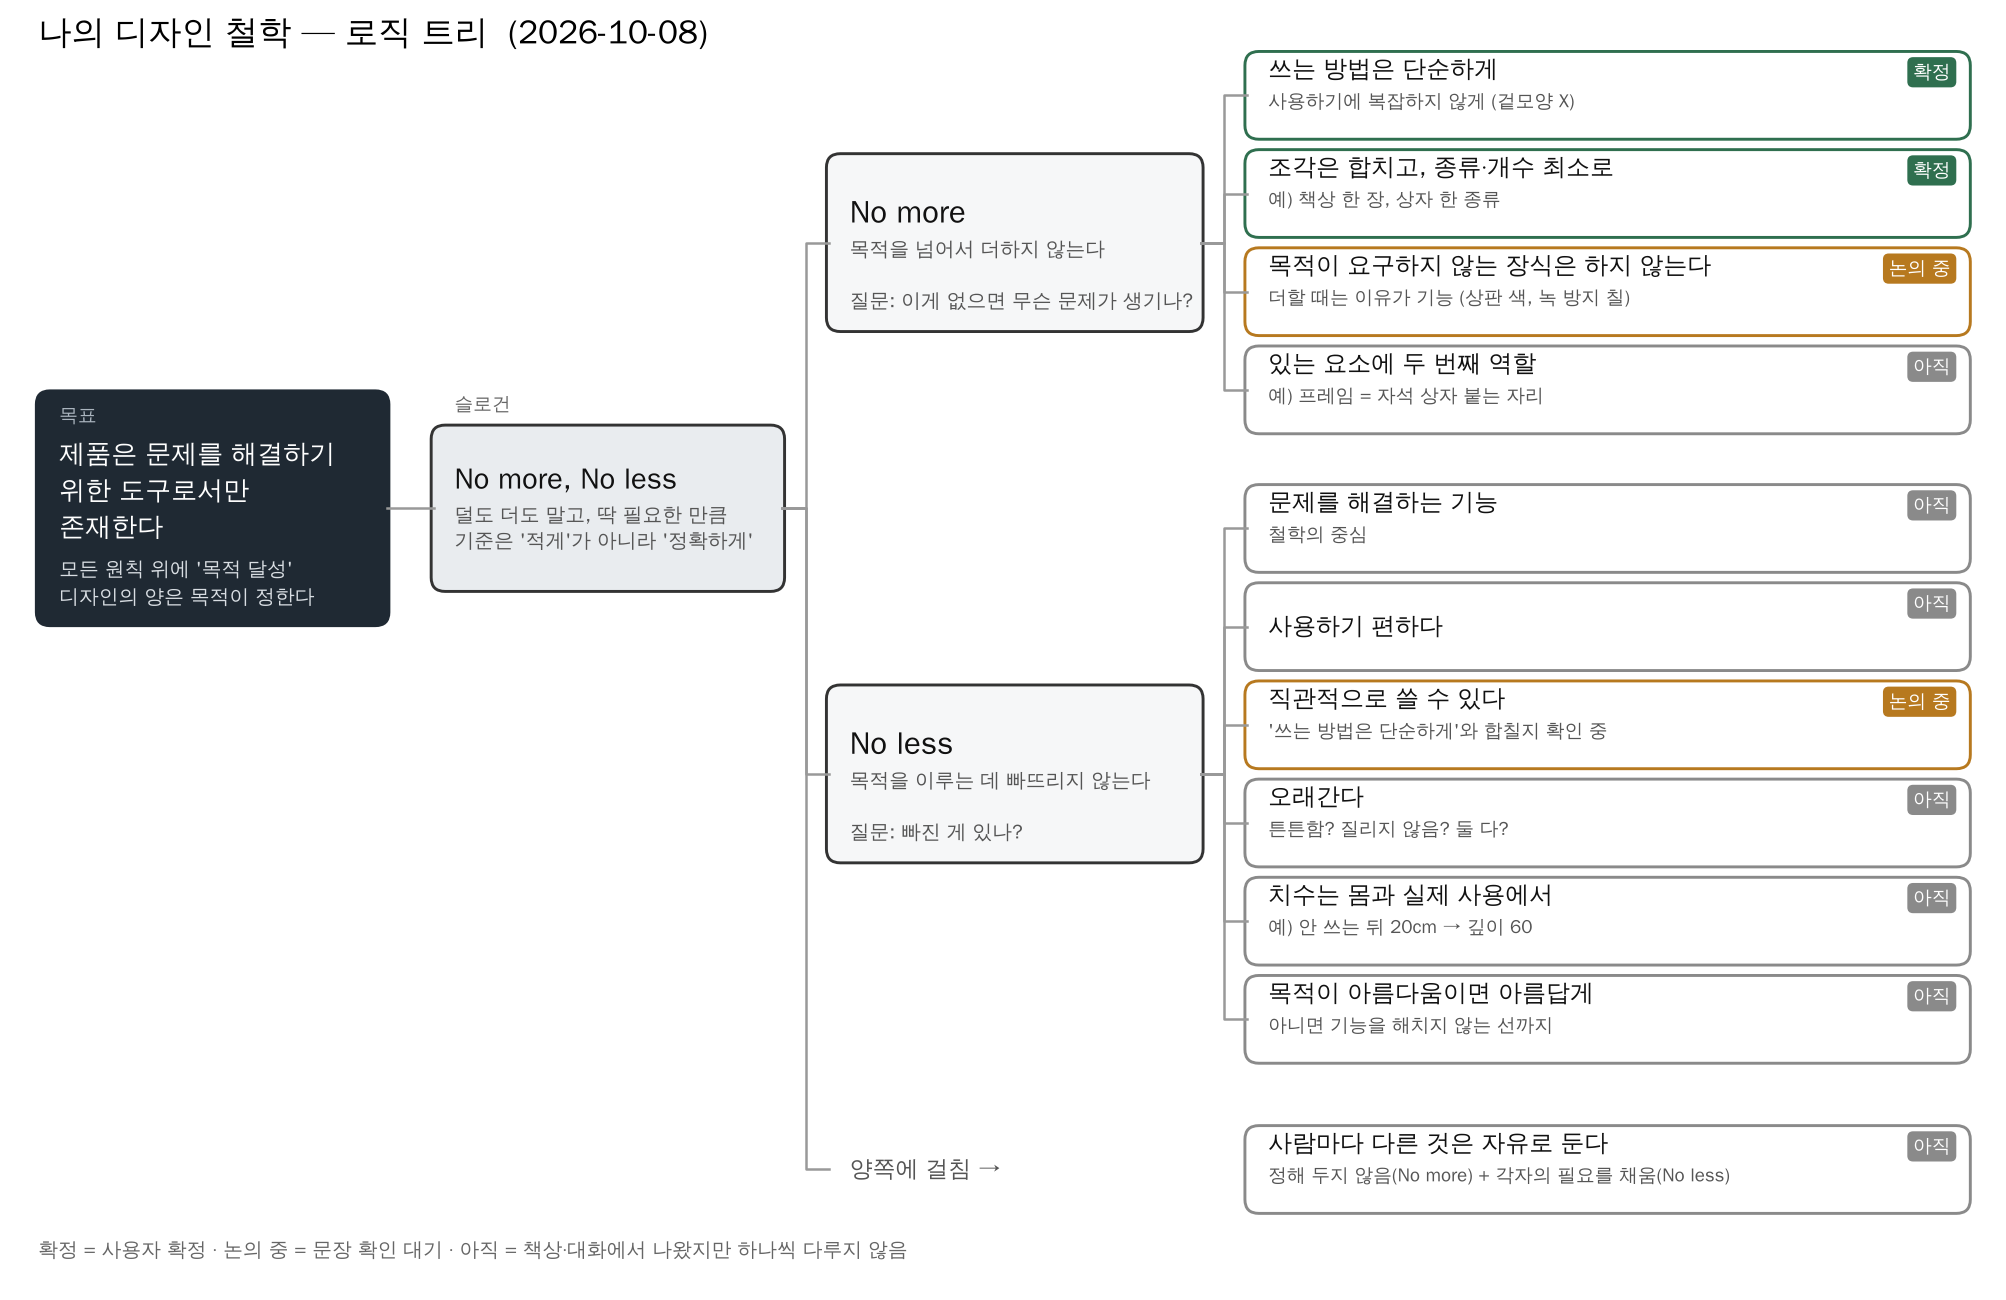
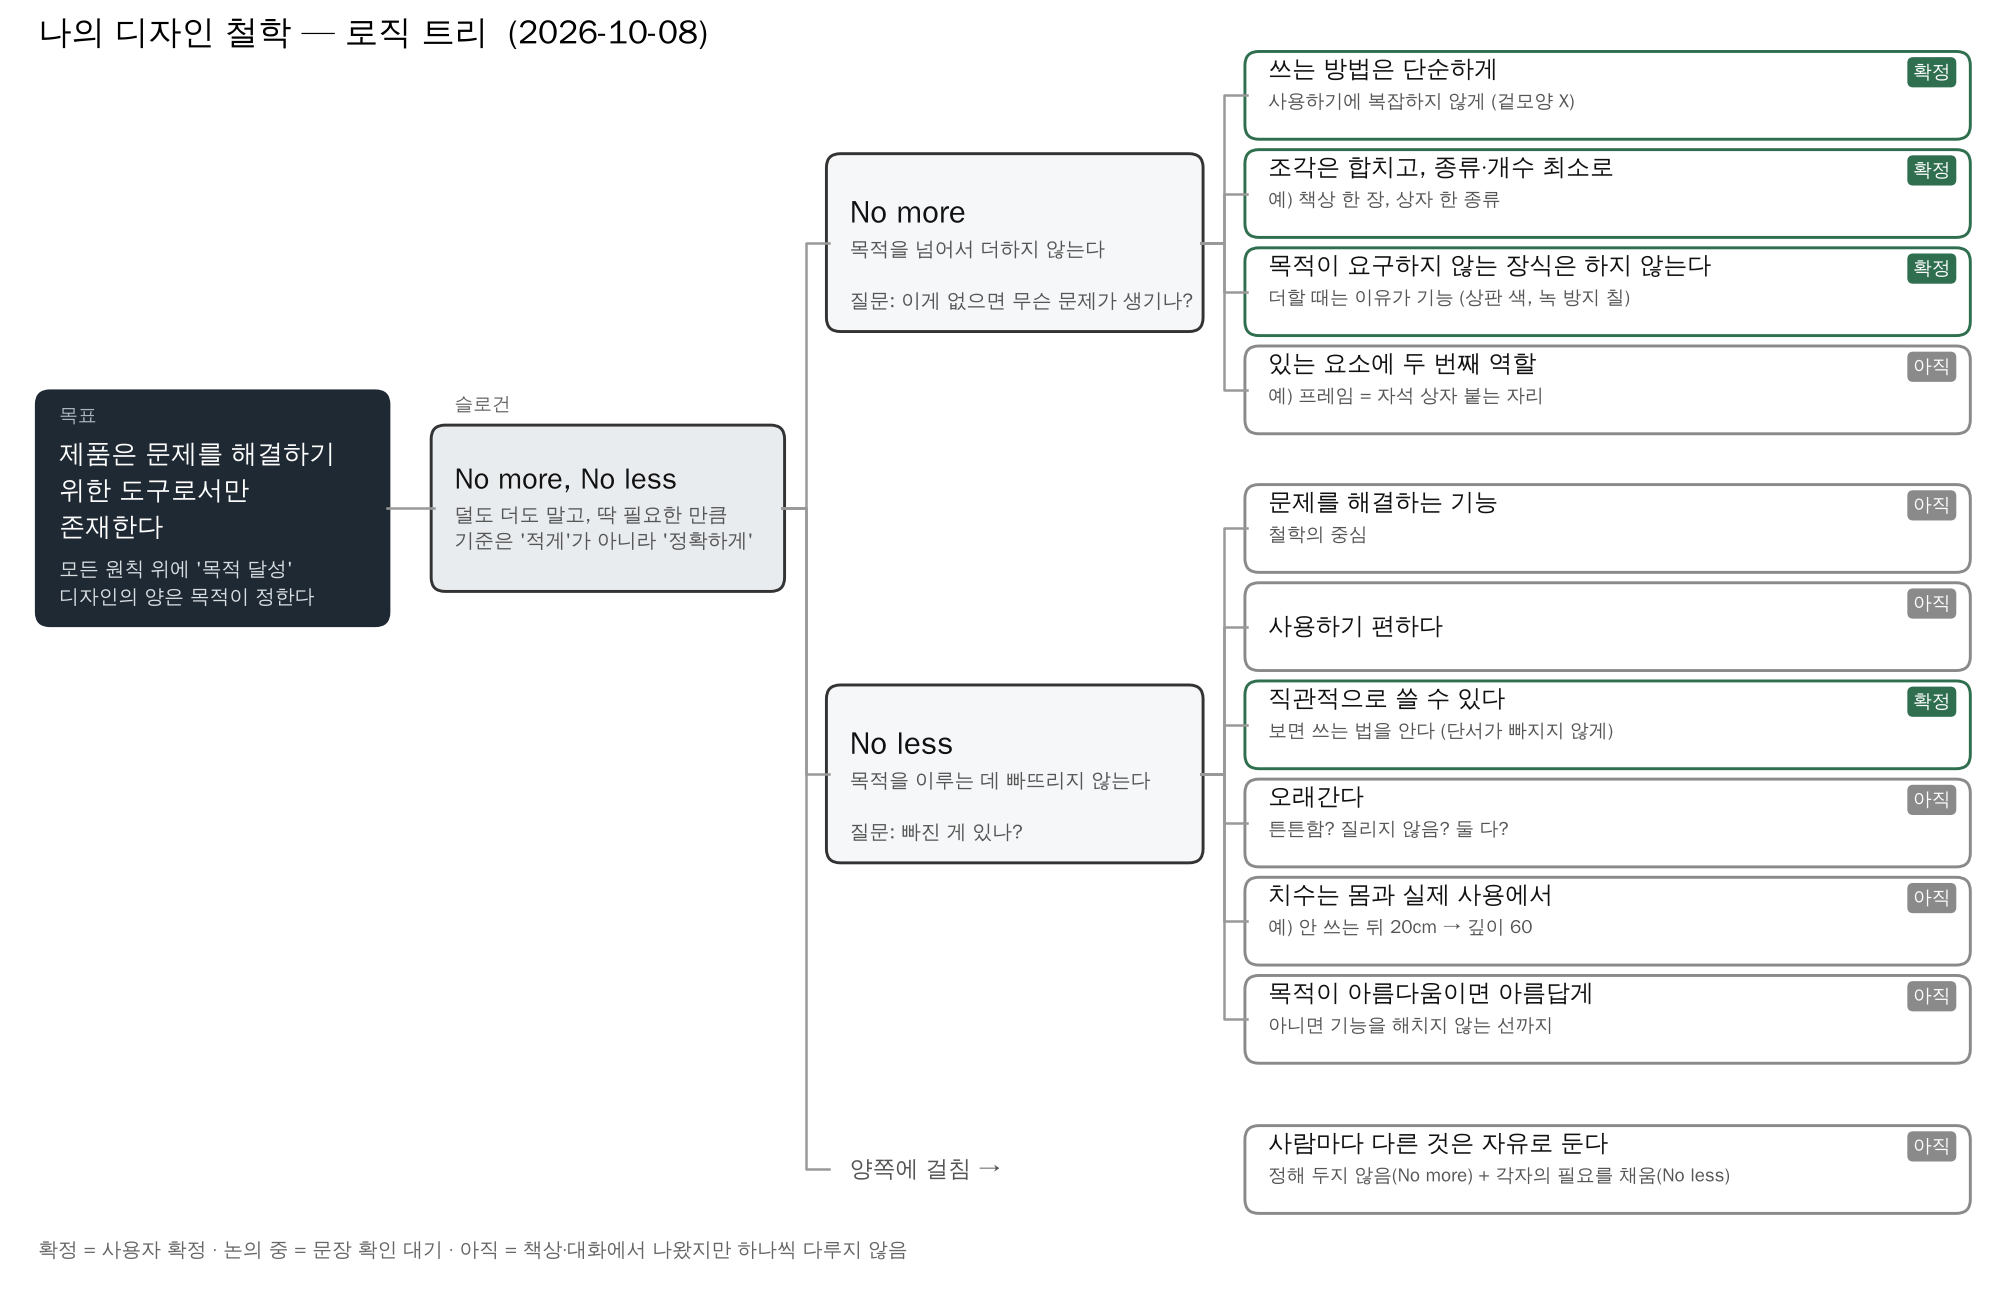
Philosophy: confirm decoration and intuitive-use principles; journal 2026-10-08
Claude-Session: https://claude.ai/code/session_01AzThxGzMUARU8msdBCaeLX

diff --git a/scripts/philosophy_tree.py b/scripts/philosophy_tree.py
@@ -17,14 +17,14 @@ branches = [
      "질문: 이게 없으면 무슨 문제가 생기나?", [
          ("쓰는 방법은 단순하게", "사용하기에 복잡하지 않게 (겉모양 X)", DONE),
          ("조각은 합치고, 종류·개수 최소로", "예) 책상 한 장, 상자 한 종류", DONE),
-         ("목적이 요구하지 않는 장식은 하지 않는다", "더할 때는 이유가 기능 (상판 색, 녹 방지 칠)", TALK),
+         ("목적이 요구하지 않는 장식은 하지 않는다", "더할 때는 이유가 기능 (상판 색, 녹 방지 칠)", DONE),
          ("있는 요소에 두 번째 역할", "예) 프레임 = 자석 상자 붙는 자리", TODO),
      ]),
     ("No less", "목적을 이루는 데 빠뜨리지 않는다",
      "질문: 빠진 게 있나?", [
          ("문제를 해결하는 기능", "철학의 중심", TODO),
          ("사용하기 편하다", "", TODO),
-         ("직관적으로 쓸 수 있다", "'쓰는 방법은 단순하게'와 합칠지 확인 중", TALK),
+         ("직관적으로 쓸 수 있다", "보면 쓰는 법을 안다 (단서가 빠지지 않게)", DONE),
          ("오래간다", "튼튼함? 질리지 않음? 둘 다?", TODO),
          ("치수는 몸과 실제 사용에서", "예) 안 쓰는 뒤 20cm → 깊이 60", TODO),
          ("목적이 아름다움이면 아름답게", "아니면 기능을 해치지 않는 선까지", TODO),

diff --git a/notes/no-more-no-less.md b/notes/no-more-no-less.md
@@ -50,8 +50,27 @@ _2026-10-07 처음 기록 · 책상 001을 만들며 다듬음_
 - **쓰는 방법은 단순하게.** 사용하기에 복잡하지 않아야 한다. ('형태를 단순하게'의 뜻은 겉모양이 아니라 쓰는 방법)
 - **조각은 합칠 수 있으면 합치고, 종류도 개수도 최소로.** 목적 달성을 위해서.
 
-### No more — 논의 중
-- '재료는 꾸미지 않는다'(8), '보이는 효과보다 기능'(6): 따로 둘 원칙인지, 아래 하나로 합칠지
-  - 합친 안: **목적이 요구하지 않는 장식은 하지 않는다. 재료·색·마감에 무언가를 더할 때는 그 이유가 기능이어야 한다.**
-  - 근거: 책상 상판 색(반사율 45%)은 눈을 위한 기능이라 정했고, 프레임 칠은 녹 방지라 했다. 꾸밈 자체가 아니라 '이유 없는 꾸밈'이 '더'다.
-- 아름다움: 목적이 아름다움이면 기능으로 적는다(No less). 아니면 기능을 해치지 않는 선에서 멈춘다(No more).
+- **목적이 요구하지 않는 장식은 하지 않는다.** 재료·색·마감에 무언가를 더할 때는 그 이유가 기능이어야 한다.
+  (책상 원칙 6 '보이는 효과보다 기능', 8 '재료는 꾸미지 않는다'를 합침. 예: 상판 색 45%는 눈을 위해, 프레임 칠은 녹 방지)
+
+### No more — 아직 다루지 않음
+- 이미 있는 요소에 두 번째 역할을 준다 (책상 원칙 3)
+
+### No less — 확정
+- **직관적으로 쓸 수 있다.** 보면 쓰는 법을 안다. 그걸 알려 주는 단서가 빠지면 안 된다.
+  ('쓰는 방법은 단순하게'와 따로 둔다: 단순함은 조작·단계를 더하지 않는 것(No more), 직관은 알려 주는 것이 빠지지 않는 것(No less))
+
+### No less — 아직 다루지 않음 (다음 제품에서 하나씩)
+- 문제를 해결하는 기능
+- 사용하기 편하다
+- 오래간다 (튼튼함? 질리지 않음? 둘 다?)
+- 치수는 몸과 실제 사용에서 (책상 원칙 2)
+- 목적이 아름다움이면 아름답게, 아니면 기능을 해치지 않는 선까지
+
+### 양쪽에 걸침 — 아직
+- 사람마다 다른 것은 자유로 둔다 (책상 원칙 5)
+
+### 판단하는 방법
+- 형태보다 문제가 먼저 (1), 경험이 계산보다 강한 근거, 기본 조건은 이데아에 쓰지 않는다 (7), 두 가지 질문 (9)
+
+새 제품을 만들 때마다 이 원칙을 시험하고 업데이트한다.

diff --git a/journal/2026-10-08.md b/journal/2026-10-08.md
@@ -1,0 +1,20 @@
+# 2026-10-08 — 철학을 No more / No less 로 나누기
+
+## 한 일
+- 지금까지 한 것 점검 (책상 001, 철학 원칙 9개)
+- 큰 목표 확인: 철학을 계속 구체화해 이상적인 회사를 만들고, 그 안의 제품부터 공간까지 디자인한다
+- 디터 람스 철학과 비교 (*Less, but better* 와 10원칙)
+- 원칙을 목표 → 슬로건 → No more / No less → 원칙 의 로직 트리로 정리 (`concepts/img/philosophy_tree.png`)
+
+## 정한 것
+- 철학의 중심: 제품은 문제를 해결하기 위한 도구로서만 존재한다. 모든 원칙 위에 목적 달성
+- No more: 쓰는 방법은 단순하게 / 조각은 합치고 종류·개수 최소로 / 목적이 요구하지 않는 장식은 하지 않는다
+- No less: 직관적으로 쓸 수 있다
+
+## 배운 것
+- 표어(슬로건)와 철학은 다르다. 철학은 '왜', 원칙은 '판단 기준', 표어는 한 줄 요약
+- 아름다움도 기능 중 하나: 목적이 요구할 때만 기능으로 적는다
+- '꾸미지 않는다'가 아니라 '이유 없는 꾸밈'이 '더'다
+
+## 다음에 할 것
+- 새 제품을 만들며 No less 원칙(편함, 오래감, 몸 치수 등)을 하나씩 시험하고 업데이트
